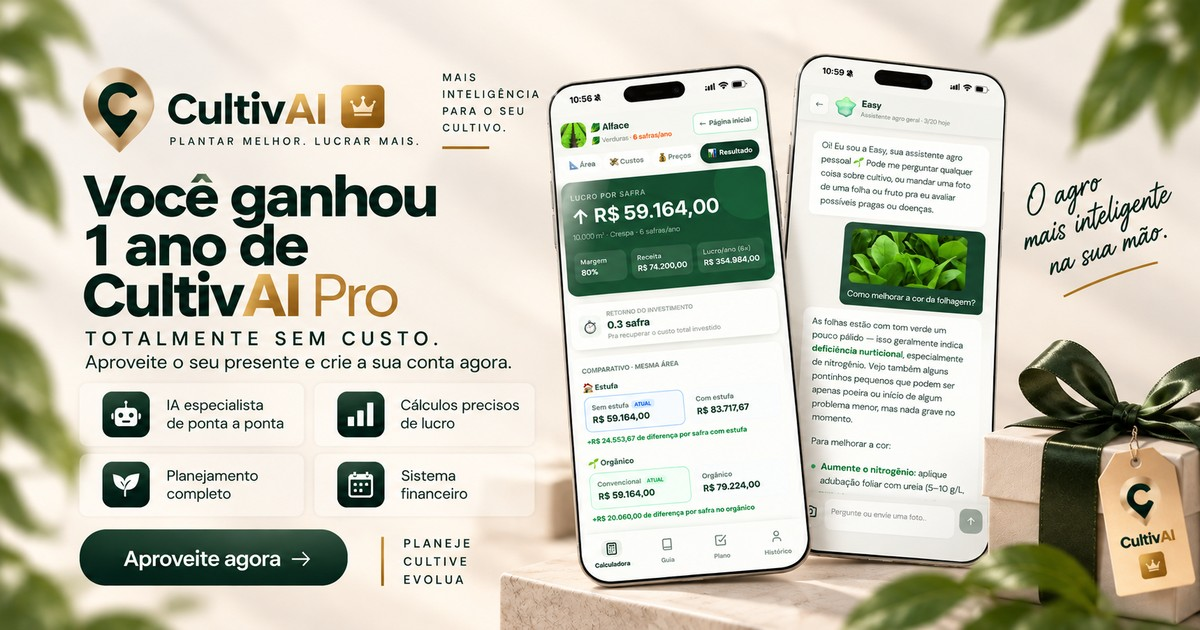
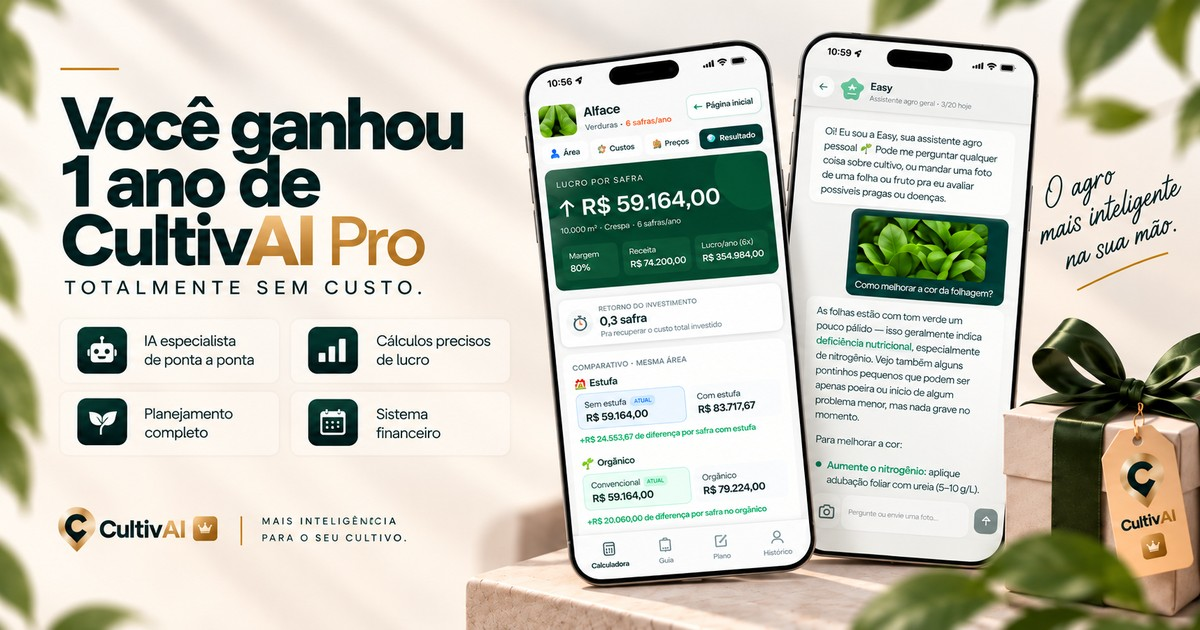
feat(presentes): nova capa do presente de 1 ano com as telas do app
Claude-Session: https://claude.ai/code/session_01FzFuQzGddqr1Qw3QbShQvu

diff --git a/presente.html b/presente.html
@@ -8,14 +8,14 @@
 <meta property="og:site_name" content="CultivAI">
 <meta property="og:title" content="IA especialista, calculadora de lucro, sistema financeiro. Planejamento completo.">
 <meta property="og:description" content="Mais de 120 culturas pra você planejar e iniciar agora, é só começar. Um ano inteiro grátis.">
-<meta property="og:image" content="https://raw.githubusercontent.com/orbicorporate/cultivai/main/og-presente.jpg?v=2">
+<meta property="og:image" content="https://raw.githubusercontent.com/orbicorporate/cultivai/main/og-presente.jpg?v=3">
 <meta property="og:image:width" content="1200">
 <meta property="og:image:height" content="630">
 <meta property="og:locale" content="pt_BR">
 <meta name="twitter:card" content="summary_large_image">
 <meta name="twitter:title" content="IA especialista, calculadora de lucro, sistema financeiro. Planejamento completo.">
 <meta name="twitter:description" content="Mais de 120 culturas pra você planejar e iniciar agora, é só começar. Um ano inteiro grátis.">
-<meta name="twitter:image" content="https://raw.githubusercontent.com/orbicorporate/cultivai/main/og-presente.jpg?v=2">
+<meta name="twitter:image" content="https://raw.githubusercontent.com/orbicorporate/cultivai/main/og-presente.jpg?v=3">
 <style>
 html,body{margin:0;height:100%;background:#F4F6F3;font-family:-apple-system,BlinkMacSystemFont,"Segoe UI",sans-serif;color:#1B4332}
 .c{height:100%;display:flex;flex-direction:column;align-items:center;justify-content:center;gap:16px;padding:24px;text-align:center}
